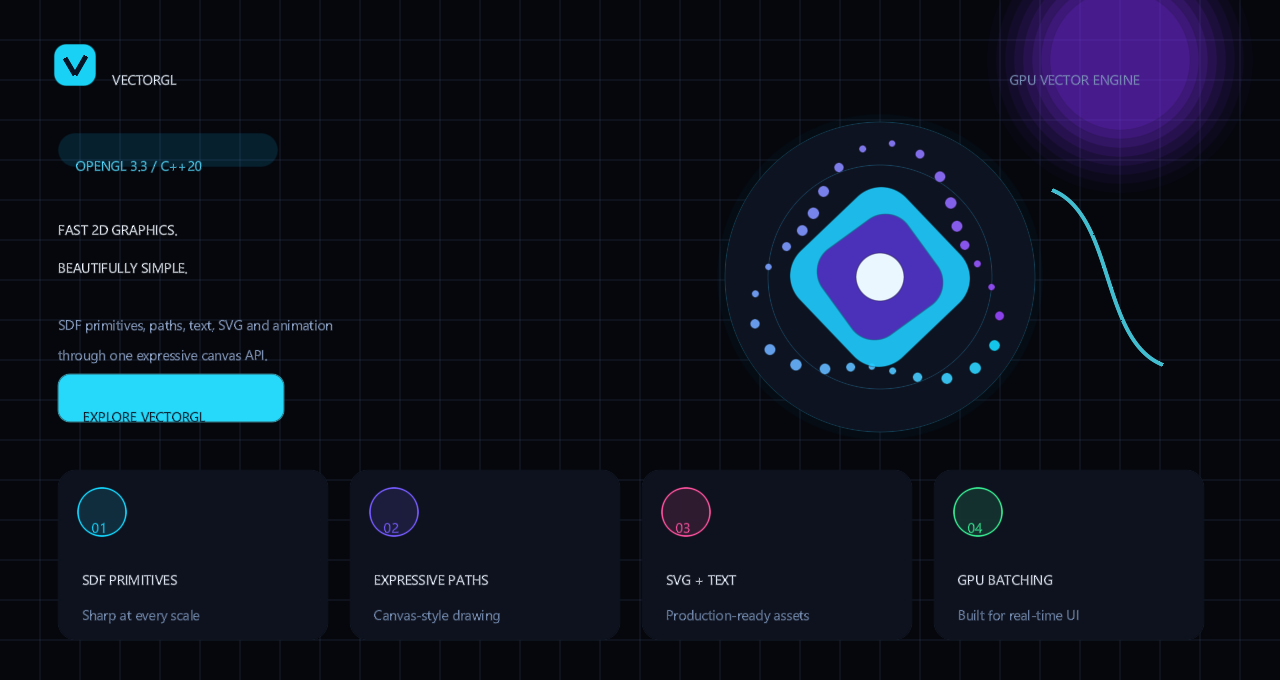
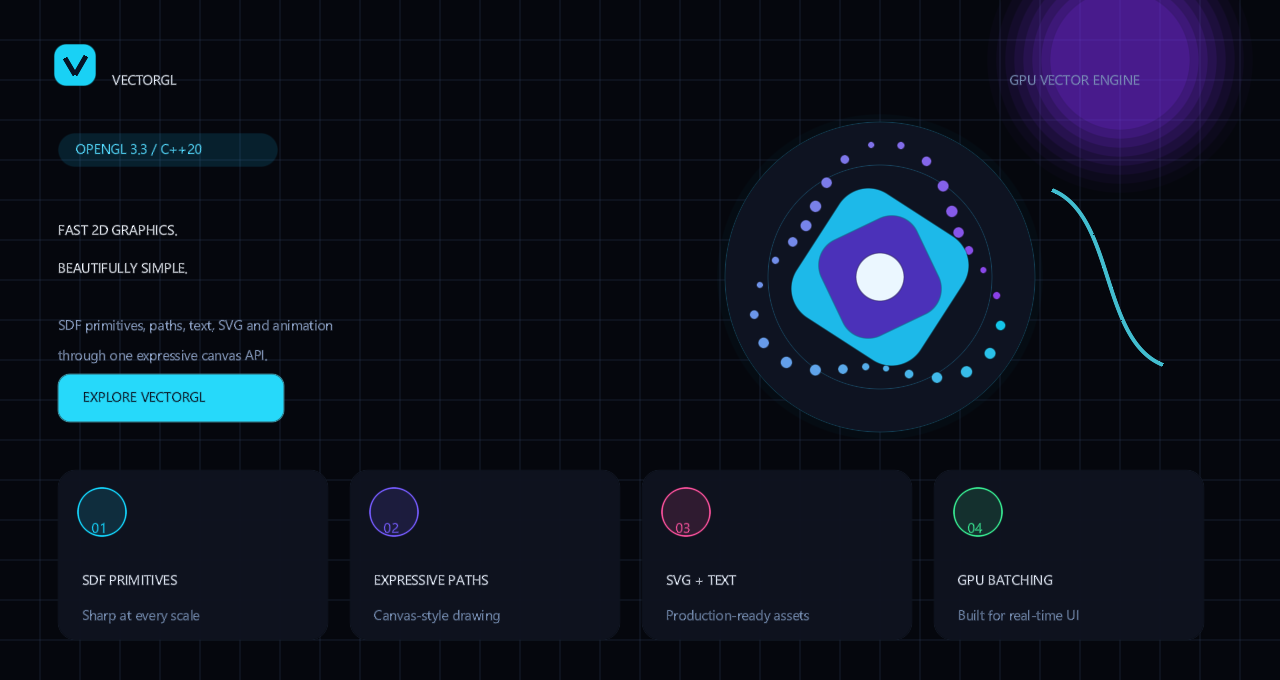
fix: center showcase button labels

diff --git a/example/showcase.cpp b/example/showcase.cpp
@@ -84,7 +84,7 @@ void drawHeroCopy(Canvas& canvas, bool hasFont)
     if (hasFont)
     {
         canvas.setFillColor({0.33f, 0.86f, 1.0f, 1.0f});
-        canvas.fillText("OPENGL 3.3 / C++20", 76.0f, 156.0f);
+        canvas.fillText("OPENGL 3.3 / C++20", 76.0f, 139.0f);
 
         canvas.setFillColor({0.95f, 0.97f, 1.0f, 1.0f});
         canvas.fillText("FAST 2D GRAPHICS.", 58.0f, 220.0f);
@@ -95,7 +95,7 @@ void drawHeroCopy(Canvas& canvas, bool hasFont)
         canvas.fillText("through one expressive canvas API.", 58.0f, 345.0f);
 
         canvas.setFillColor({0.03f, 0.09f, 0.15f, 1.0f});
-        canvas.fillText("EXPLORE VECTORGL", 83.0f, 407.0f);
+        canvas.fillText("EXPLORE VECTORGL", 83.0f, 387.0f);
     }
 }
 
